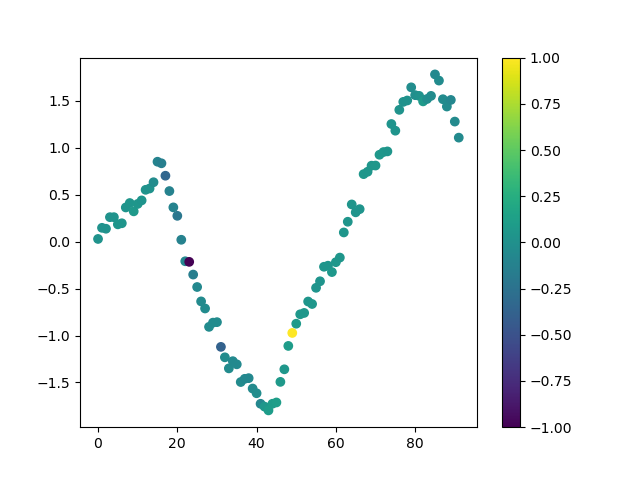
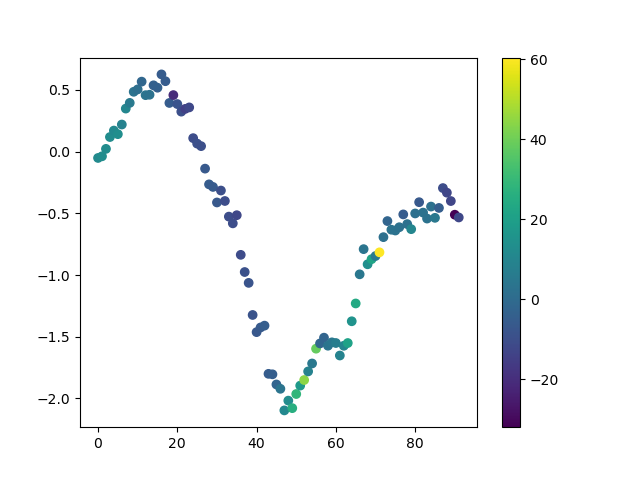
document meta-labeling, and meta-label pho and bgbio

diff --git a/ch5_financial_labels.py b/ch5_financial_labels.py
@@ -1,6 +1,7 @@
 # -*- coding: utf-8 -*-
 import statsmodels.api as sm1
 import numpy as np
+import pandas as pd
 import matplotlib.pylab as plt
 
 #Trend scanning method
@@ -30,6 +31,12 @@ def getBinsFromTrend(molecule, close, span):
       - t1: End time for the identified trend
       - tVal: t-value associated with the estimated trend coefficient
       - bin: Sign of the trend
+    The t-statistics for each tick has a different look-back window.
+      
+    - dt0 start time in look-forward window
+    - dt1 stop time in look-forward window
+    - df1 is the look-forward window
+    - iloc ? 
     '''
     out = pd.DataFrame(index=molecule, columns=['t1', 'tVal', 'bin'])
     hrzns = range(*span)
@@ -54,22 +61,26 @@ if __name__ == '__main__':
     df0 = pd.Series(np.random.normal(0, .1, 100)).cumsum()
     df0 += np.sin(np.linspace(0, 10, df0.shape[0]))
     df1 = getBinsFromTrend(df0.index, df0, [3,10,1]) #[3,10,1] = range(3,10)
-
-    #normalise t-values to -1, 1
     tValues = df1['tVal'].values
-    minusArgs = [i for i in range(0, len(tValues)) if tValues[i] < 0]
-    tValues[minusArgs] = tValues[minusArgs] / (np.min(tValues)*(-1.0))
 
-    plus_one = [i for i in range(0, len(tValues)) if tValues[i] > 0]
-    tValues[plus_one] = tValues[plus_one] / np.max(tValues)
+    doNormalize = False
+    #normalise t-values to -1, 1
+    if doNormalize: 
+        np.min(tValues)
+        minusArgs = [i for i in range(0, len(tValues)) if tValues[i] < 0]
+        tValues[minusArgs] = tValues[minusArgs] / (np.min(tValues)*(-1.0))
+
+        plus_one = [i for i in range(0, len(tValues)) if tValues[i] > 0]
+        tValues[plus_one] = tValues[plus_one] / np.max(tValues)
 
 
     plt.scatter(df1.index, df0.loc[df1.index].values, c=tValues, cmap='viridis') #df1['tVal'].values, cmap='viridis')
     plt.colorbar()
-    plt.savefig('fig5.1.png')
+    plt.show()
+    plt.savefig('fig5.2.png')
     plt.clf()
     plt.close()
-    plt.scatter(df1.index, df0.loc[df1.index].values, c=c, cmap='viridis')
+    plt.scatter(df1.index, df0.loc[df1.index].values, c=df1['bin'].values, cmap='vipridis')
     
     #Test methods
     ols_tvalue = tValLinR( np.array([3.0, 3.5, 4.0]) )

diff --git a/covariance_matrix_applied.py b/covariance_matrix_applied.py
@@ -1,6 +1,7 @@
 # -*- coding: utf-8 -*-
 import yfinance as yf
 import numpy as np
+import pandas as pd
 from sklearn.preprocessing import MinMaxScaler
 import pandas as pd
 import os
@@ -11,6 +12,7 @@ import matplotlib
 import marcenko_pastur_pdf as mp
 import chap2_monte_carlo_experiment as mc
 import onc as onc
+import ch5_financial_labels as fl
 
 #Resources:
 #Random matrix theory: https://calculatedcontent.com/2019/12/03/towards-a-new-theory-of-learning-statistical-mechanics-of-deep-neural-networks/
@@ -177,7 +179,7 @@ if __name__ == '__main__':
     portfolio_name = pd.read_csv('csv/ol_names.csv', delimiter=',',header=None)[0].tolist()
     S_value = S_value[:,1:184] # S = S[:,6:9]
     portfolio_name = portfolio_name[1:184] #portfolio_name = portfolio_name[6:9]
-    if S_value.shape[0] <1:
+    if S_value.shape[0] < 1:
         S_value, portfolio_name = get_OL_tickers_close()
         np.savetxt('csv/ol184.csv', S_value, delimiter=',')
         np.savetxt('csv/ol_names.csv', np.asarray(portfolio_name), delimiter=',', fmt='%s')
@@ -233,6 +235,31 @@ if __name__ == '__main__':
     matplotlib.pyplot.gca().invert_yaxis()
     matplotlib.pyplot.colorbar()
     matplotlib.pyplot.show()
+    
+    #Chapter 5 Financial labels
+    #Lets try trend-following on PHO
+    pho = S_value[:,121]
+    df0 = pd.Series(pho[-50:])
+    df1 = fl.getBinsFromTrend(df0.index, df0, [3,10,1]) #[3,10,1] = range(3,10)
+    tValues = df1['tVal'].values
+    plt.scatter(df1.index, df0.loc[df1.index].values, c=tValues, cmap='viridis') #df1['tVal'].values, cmap='viridis')
+    plt.colorbar()
+    plt.show()
+
+    bgbio_df = yf.Ticker("BGBIO.ol")
+    bg_bio_ticker_df = df.history(period="7y")
+                
+    bgbio = bg_bio_ticker_df['Close']
+    df0 = pd.Series(bgbio[-200:])
+    df1 = fl.getBinsFromTrend(df0.index, df0, [3,20,1]) #[3,10,1] = range(3,10)
+    tValues = df1['tVal'].values
+    plt.scatter(df1.index, df0.loc[df1.index].values, c=tValues, cmap='viridis') #df1['tVal'].values, cmap='viridis')
+    plt.colorbar()
+    plt.show()
+
+
+
+    
     
     import doctest
     doctest.testmod()

diff --git a/metrics.py b/metrics.py
@@ -68,6 +68,6 @@ if __name__ == '__main__':
     x = np.random.normal(size=size)
     e = np.random.normal(size=size)
     y = 0*x+e
-    nmi=mutualInfo(x,y,True)
-    corr=np.corrcoef(x,y)[0,1]
+    nmi = mutualInfo(x,y,True)
+    corr = np.corrcoef(x,y)[0,1]
 
